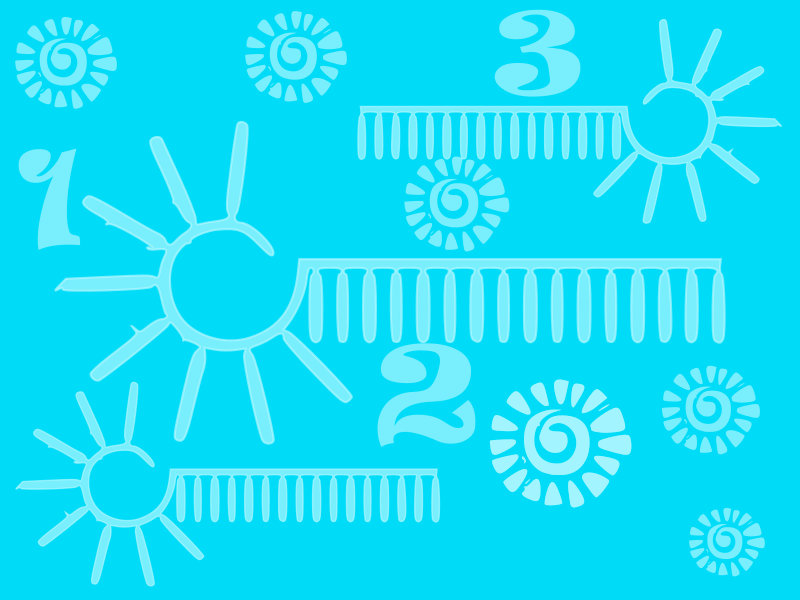
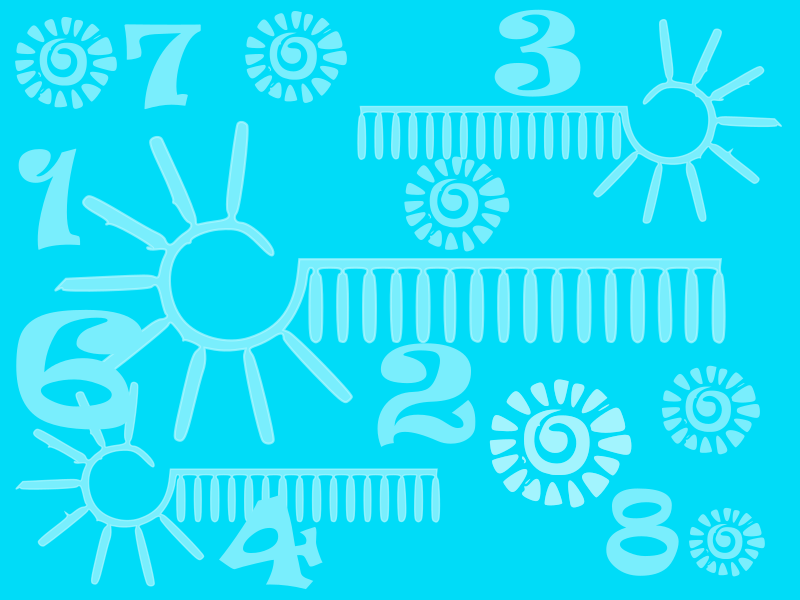
Math background updated

diff --git a/Llama/wwwroot/game/scenes/MiniGameMath1.js b/Llama/wwwroot/game/scenes/MiniGameMath1.js
@@ -71,7 +71,7 @@ class MiniGameMath1 extends Phaser.Scene{
 
         //Background definitions
         let bkg1 = this.add.sprite(450, 280, 'bkg');
-        bkg1.setScale(1.15);
+        bkg1.setScale(1);
 
         //Apple jar
         let appleJar = this.add.sprite(450, 160, 'appleJar');
